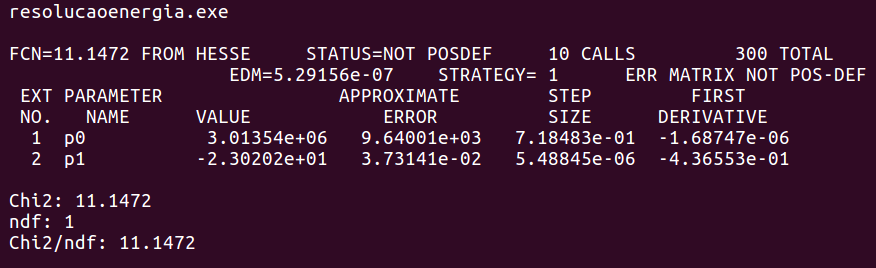
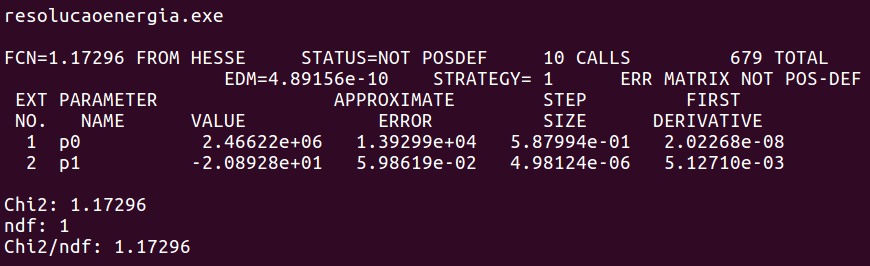
basic commit

diff --git a/alpha/resolucaoenergia.cpp b/alpha/resolucaoenergia.cpp
@@ -80,8 +80,8 @@ int main()
     func1->SetLineWidth(2);
 
     // Set initial values and parameter names
-    func1->SetParameter(0, 5.e6);
-    func1->SetParameter(1, -25.);
+    func1->SetParameter(0, 2.e6);
+    func1->SetParameter(1, -20.);
 
     // Draw
     DataSaver[0]->Draw("AP");

diff --git a/alpha/resolucaoenergia2.cpp b/alpha/resolucaoenergia2.cpp
@@ -80,8 +80,8 @@ int main()
     func1->SetLineWidth(2);
 
     // Set initial values and parameter names
-    func1->SetParameter(0, 0);
-    func1->SetParameter(1, 100);
+    func1->SetParameter(0, 0.2);
+    func1->SetParameter(1, 1);
 
     // Draw
     DataSaver[0]->Draw("AP");
